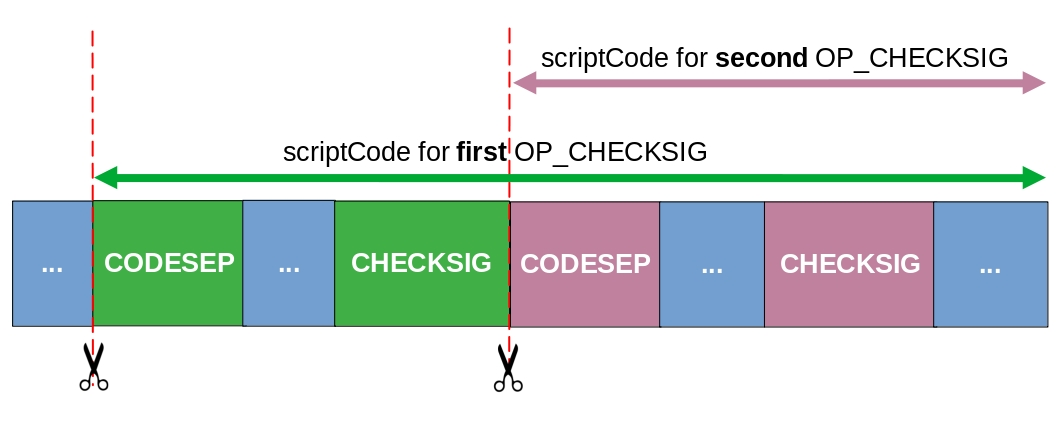
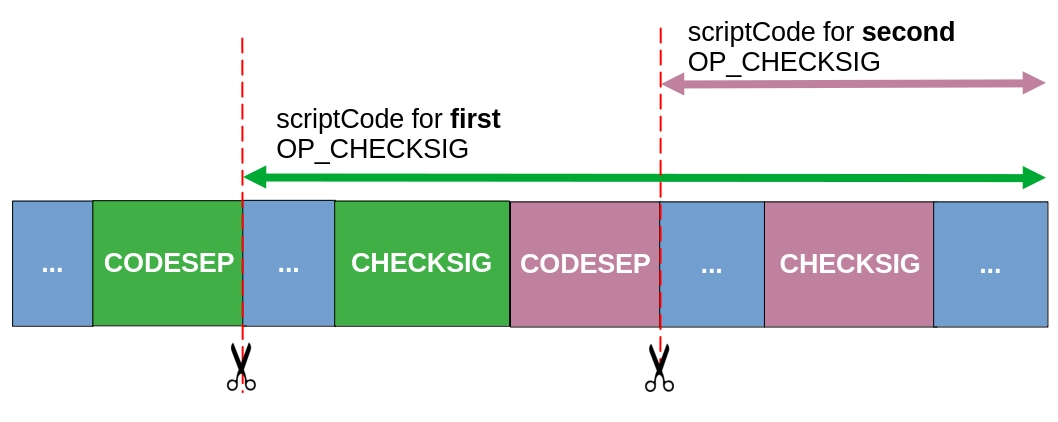
Fix OP_CS multiple

diff --git a/docs/advanced/codeseparator.md b/docs/advanced/codeseparator.md
@@ -13,7 +13,7 @@ Part 5, `scriptCode`, usually contains the entire smart contract, i.e., locking 
 
 ![](../../static/img/opcs.png)
 
-If multiple instances of `OP_CODESEPARATOR` are present, a subsequent `checkSig` will only use the part of the locking script after (and including) **the most recent** occurrence of `OP_CODESEPARATOR` as the `scriptCode`.
+If multiple instances of `OP_CODESEPARATOR` are present, a subsequent `checkSig` will only use the part of the locking script after **the most recent** occurrence of `OP_CODESEPARATOR` as the `scriptCode`.
 
 ![](../../static/img/opcs_mul.jpg)
 
